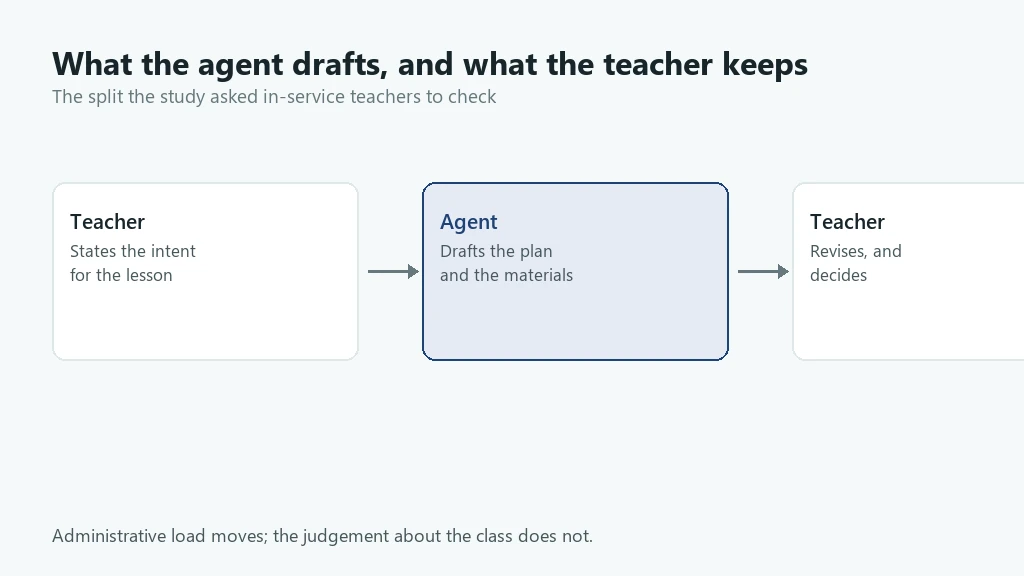
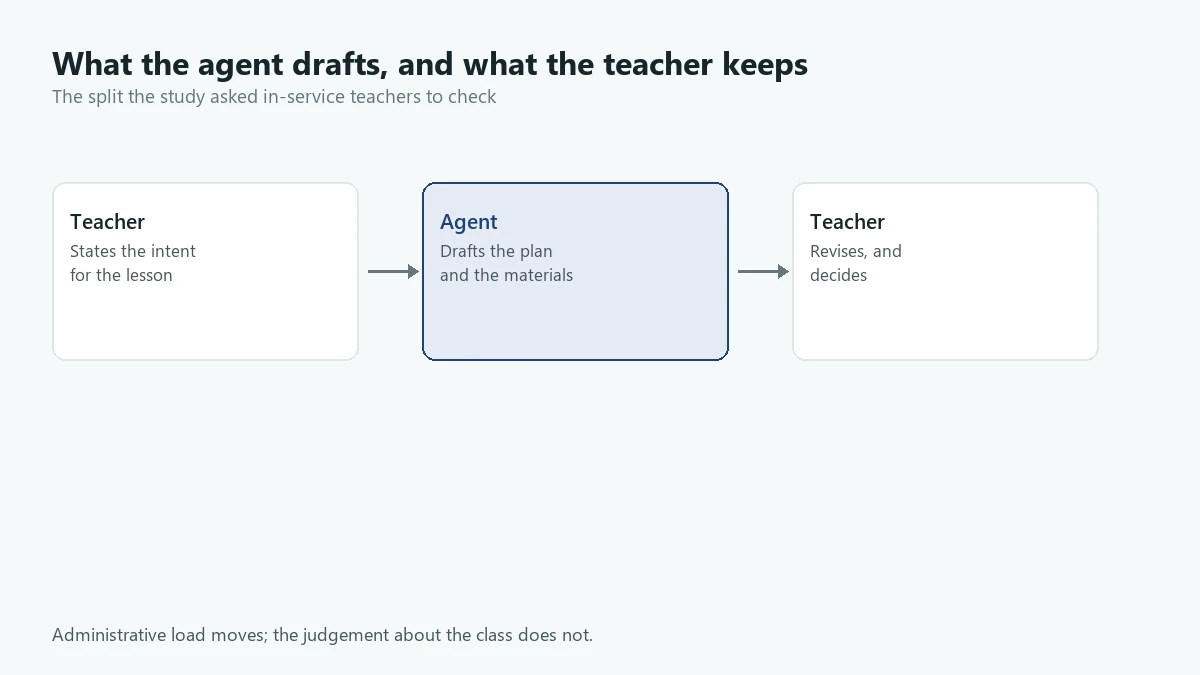
Cut the figures where the interface has a seam, not through it
Every crop was a rectangle of the right shape dropped on the picture, so it
ran through a card, a bubble, a photograph's edge. The boxes are pixels now,
and each edge sits in empty space - between two report cards, in the gap after
a reply, at the border where one photograph ends. What is left over rarely
lands on 16:9, so it is padded out to the ratio in the picture's own background
colour instead of being cut down to it.

The drawn frame went back to 1200 wide, which is the width its layout was
measured for; at 1024 its third box ran off the edge.

The home card is about 212x124, where no interface text can be read, so its
thumbnail keeps the part that reads as a shape: the handwriting, the two
career panels, the person in the headset.

diff --git a/projects/index.html b/projects/index.html
@@ -54,7 +54,7 @@
               <p class="project-did"><span>What I did</span>Designed the evaluation framework, wrote the utterance-level ICAP coding manual and built the classifier for it, ran the sessions with school and first-year university students, and built the analytics dashboard.</p>
               <p class="results"><span>What came out</span>Coded dialogue corpus &middot; Research dashboard &middot; Journal manuscript in preparation</p>
             </div>
-            <img class="project-figure" src="/assets/projects/ai-tutoring-cluney/figure.webp" width="1024" height="576" loading="lazy" alt="The tutoring system's problem view: a confidence-interval question with the student's handwritten solution uploaded beside it">
+            <img class="project-figure" src="/assets/projects/ai-tutoring-cluney/figure.webp" width="1200" height="675" loading="lazy" alt="The tutoring system's problem view: a confidence-interval question with the student's handwritten solution uploaded beside it">
           </div>
         </article>
         </div>
@@ -73,7 +73,7 @@
               <p class="project-did"><span>What I did</span>Ran the teacher focus groups, designed the multi-agent workflow, ran two rounds of expert validation and the Delphi study, and piloted the system with 30 teachers and 150 students. Experts rated the design direction 4.37&nbsp;/&nbsp;5 and automatic record ingestion 5.00&nbsp;/&nbsp;5.</p>
               <p class="results"><span>What came out</span>KERIS Report RR 2025-3 &middot; <a href="/demos/career-agent/">Working prototype</a> &middot; Invention disclosure &middot; <a href="/publications/agentic-career-hci2026/">HCI Korea 2026, first author</a></p>
             </div>
-            <img class="project-figure" src="/assets/projects/agentic-career-keris/figure.webp" width="1024" height="576" loading="lazy" alt="The counseling report's Major and Career section, showing two career directions inferred from the student's record and the reason for each">
+            <img class="project-figure" src="/assets/projects/agentic-career-keris/figure.webp" width="1200" height="675" loading="lazy" alt="The counseling report's Major and Career section, showing two career directions inferred from the student's record and the reason for each">
           </div>
         </article>
         <article class="project" id="ai-copilot">
@@ -86,7 +86,7 @@
               <p class="project-did"><span>What I did</span>Designed and evaluated a multi-agent LLM debate chatbot that draws out a student&rsquo;s argument and scores critical thinking from the exchange &mdash; its evaluator agents matched human raters at an intraclass correlation of 0.78 &mdash; and co-developed a self-determination-theory career counseling chatbot.</p>
               <p class="results"><span>What came out</span><a href="/publications/debate-chatbot/">CHI EA 2025, first author</a> &middot; <a href="/publications/sdt-career-chatbot/">CHI EA 2025, co-author</a> &middot; <a href="/publications/self-disclosure-hci2025/">HCI Korea 2025, Best Paper Award</a></p>
             </div>
-            <img class="project-figure" src="/assets/projects/ai-copilot-iitp/figure.webp" width="1024" height="576" loading="lazy" alt="The self-disclosing condition of the stress-assessment chatbot, naming its own exam-week sleep trouble before asking the student about theirs">
+            <img class="project-figure" src="/assets/projects/ai-copilot-iitp/figure.webp" width="1200" height="675" loading="lazy" alt="The self-disclosing condition of the stress-assessment chatbot, naming its own exam-week sleep trouble before asking the student about theirs">
           </div>
         </article>
         <article class="project" id="instructional-design">
@@ -99,7 +99,7 @@
               <p class="project-did"><span>What I did</span>Authored the final report, designed the system prompts, and drafted the interface.</p>
               <p class="results"><span>What came out</span>Project final report &middot; Practitioner guide</p>
             </div>
-            <img class="project-figure" src="/assets/projects/instructional-design-keris/figure.webp" width="1024" height="576" loading="lazy" alt="The loop the agent sits in: the teacher states the intent, the agent drafts, the teacher revises and decides">
+            <img class="project-figure" src="/assets/projects/instructional-design-keris/figure.webp" width="1200" height="675" loading="lazy" alt="The loop the agent sits in: the teacher states the intent, the agent drafts, the teacher revises and decides">
           </div>
         </article>
         </div>
@@ -118,7 +118,7 @@
               <p class="project-did"><span>What I did</span>Ran the VR data collection at the hospital myself, with patients rather than a convenience sample, and analyzed the VEEM multimodal data it produced &mdash; including the VR&ndash;MRI&ndash;SNSB cohort of 54.</p>
               <p class="results"><span>What came out</span>VEEM multimodal dataset, N&nbsp;=&nbsp;54 &middot; Patent, filed 2023 &middot; <a href="/publications/">Four papers drawn from it</a></p>
             </div>
-            <img class="project-figure" src="/assets/projects/veem-brl/figure.webp" width="1024" height="576" loading="lazy" alt="Hand paths recorded through the first three kiosk steps, healthy controls above and participants with mild cognitive impairment below">
+            <img class="project-figure" src="/assets/projects/veem-brl/figure.webp" width="1200" height="675" loading="lazy" alt="Hand paths recorded through the first three kiosk steps, healthy controls above and participants with mild cognitive impairment below">
           </div>
         </article>
         <article class="project" id="vr-dementia">
@@ -131,7 +131,7 @@
               <p class="project-did"><span>What I did</span>Built the virtual kiosk task in Unity &mdash; the six-step meal order the whole study rests on &mdash; then led the multimodal model, deriving hand-movement and gaze features from it and reading them together with MRI to separate 22 controls from 32 patients at 94.4% accuracy.</p>
               <p class="results"><span>What came out</span><a href="/demos/kiosk/">Virtual kiosk task in Unity</a> &middot; <a href="/publications/multimodal-biomarkers-jmir/">JMIR 2024, first author</a> &middot; <a href="/publications/vr-mri-chi/">CHI EA 2024</a> &middot; <a href="/publications/">Two IEEE papers</a></p>
             </div>
-            <img class="project-figure" src="/assets/projects/vr-dementia-biomarker/figure.webp" width="1024" height="576" loading="lazy" alt="A participant seated in the virtual kiosk task, with the head-mounted display, hand controller and base station labeled">
+            <img class="project-figure" src="/assets/projects/vr-dementia-biomarker/figure.webp" width="1200" height="675" loading="lazy" alt="A participant seated in the virtual kiosk task, with the head-mounted display, hand controller and base station labeled">
           </div>
         </article>
         </div>

diff --git a/scripts/build_project_figures.py b/scripts/build_project_figures.py
@@ -25,7 +25,7 @@ import os
 from PIL import Image, ImageDraw, ImageFont
 
 ROOT = os.path.dirname(os.path.dirname(os.path.abspath(__file__)))
-W, H, MARGIN = 1024, 576, 52
+W, H, MARGIN = 1200, 675, 52
 SOFT, PAPER, LINE = (245, 249, 249), (255, 255, 255), (223, 231, 233)
 INK, BODY, MUTED = (23, 37, 42), (70, 87, 92), (102, 120, 125)
 ACCENT, PALE, WARM = (31, 66, 117), (228, 234, 244), (181, 93, 62)
@@ -244,29 +244,31 @@ THUMBS = {
 FILMS = os.path.join(ROOT, "assets", "demos")
 SOURCES = os.path.join(os.path.dirname(os.path.abspath(__file__)), "figure-sources")
 
+# Boxes are pixels in the source, and every edge sits in empty space - between
+# two cards, between two bubbles, at the border of a photograph - so nothing is
+# ever sliced through. What is left over after that rarely lands on 16:9, so the
+# crop is padded out to the ratio in the source's own background colour rather
+# than cut down to it.
 REAL = {
     "ai-tutoring-cluney": (
-        os.path.join(SOURCES, "cluney-tutor-ui.webp"), None,
-        (0.000, 0.000, 1.000, 1.000)),
+        os.path.join(SOURCES, "cluney-tutor-ui.webp"), None, (0, 0, 1703, 730)),
     "agentic-career-keris": (
-        os.path.join(FILMS, "career-agent", "system-demo.mp4"), 30.0,
-        (0.010, 0.085, 0.565, 0.550)),
+        os.path.join(FILMS, "career-agent", "system-demo.mp4"), 30.0, (26, 0, 943, 560)),
     "ai-copilot-iitp": (
-        os.path.join(FILMS, "self-disclosure", "demo.mp4"), 46.3,
-        (0.518, 0.039, 0.983, 0.504)),
+        os.path.join(FILMS, "self-disclosure", "demo.mp4"), 46.3, (655, 12, 1266, 330)),
     "veem-brl": (
-        os.path.join(FILMS, "vr-biomarker", "kiosk-playthrough.mp4"), 42.8,
-        (0.000, 0.181, 0.600, 0.781)),
+        os.path.join(FILMS, "vr-biomarker", "kiosk-playthrough.mp4"), 42.8, (42, 24, 1268, 609)),
     "vr-dementia-biomarker": (
-        os.path.join(FILMS, "vr-biomarker", "kiosk-playthrough.mp4"), 3.3,
-        (0.000, 0.000, 0.660, 0.740)),
+        os.path.join(FILMS, "vr-biomarker", "kiosk-playthrough.mp4"), 3.3, (0, 0, 800, 450)),
 }
 
-# the home page shows the same pictures in a shorter card
+# The home card is about 212x124, where no interface text can be read, so the
+# thumbnail keeps the part of the picture that reads as a shape: the handwriting,
+# the two career panels, the person in the headset.
 THUMB_W, THUMB_H = 900, 500
 REAL_THUMBS = {
-    "ai-tutoring-cluney": (0.28, 0.05, 1.00, 0.70),
-    "agentic-career-keris": (0.00, 0.05, 0.80, 0.65),
+    "ai-tutoring-cluney": (0.42, 0.36, 1.00, 0.96),
+    "agentic-career-keris": (0.04, 0.225, 0.97, 0.555),
     "vr-dementia-biomarker": (0.00, 0.00, 1.00, 1.00),
 }
 
@@ -282,23 +284,28 @@ def _frame(path, seconds):
     return Image.open(tmp).convert("RGB")
 
 
-def _fit(im, box, ratio):
-    """Settle a crop box on one aspect ratio without moving its centre."""
+def _pad_to(im, ratio):
+    """Grow the shorter side with the picture's own edge colour, never crop."""
     w, h = im.size
-    b = [int(box[0] * w), int(box[1] * h), int(box[2] * w), int(box[3] * h)]
-    bw, bh = b[2] - b[0], b[3] - b[1]
-    if bw / bh > ratio:
-        need = int(bw / ratio); c = (b[1] + b[3]) // 2
-        b[1] = max(0, min(c - need // 2, h - need)); b[3] = b[1] + need
-    else:
-        need = int(bh * ratio); c = (b[0] + b[2]) // 2
-        b[0] = max(0, min(c - need // 2, w - need)); b[2] = b[0] + need
-    return im.crop(b)
+    tw, th = (w, round(w / ratio)) if w / h > ratio else (round(h * ratio), h)
+    if (tw, th) == (w, h):
+        return im
+    edge = im.getpixel((2, 2)) if th > h else im.getpixel((2, h - 3))
+    out = Image.new("RGB", (tw, th), edge)
+    out.paste(im, ((tw - w) // 2, (th - h) // 2))
+    return out
+
+
+def _crop_fraction(im, box, ratio):
+    """A box given as fractions, then padded - used for the home thumbnails."""
+    w, h = im.size
+    return _pad_to(im.crop((int(box[0] * w), int(box[1] * h),
+                            int(box[2] * w), int(box[3] * h))), ratio)
 
 
 def real_figure(slug):
     path, seconds, box = REAL[slug]
-    return _fit(_frame(path, seconds), box, W / H).resize((W, H), Image.LANCZOS)
+    return _pad_to(_frame(path, seconds).crop(box), W / H).resize((W, H), Image.LANCZOS)
 
 
 def main():
@@ -313,7 +320,7 @@ def main():
             kind = "drawn"
         fig.save(os.path.join(out_dir, "figure.webp"), "WEBP", quality=90, method=6)
         if slug in REAL_THUMBS:
-            _fit(fig, REAL_THUMBS[slug], THUMB_W / THUMB_H).resize(
+            _crop_fraction(fig, REAL_THUMBS[slug], THUMB_W / THUMB_H).resize(
                 (THUMB_W, THUMB_H), Image.LANCZOS).save(
                 os.path.join(out_dir, "thumb.webp"), "WEBP", quality=92, method=6)
         elif slug in THUMBS:
